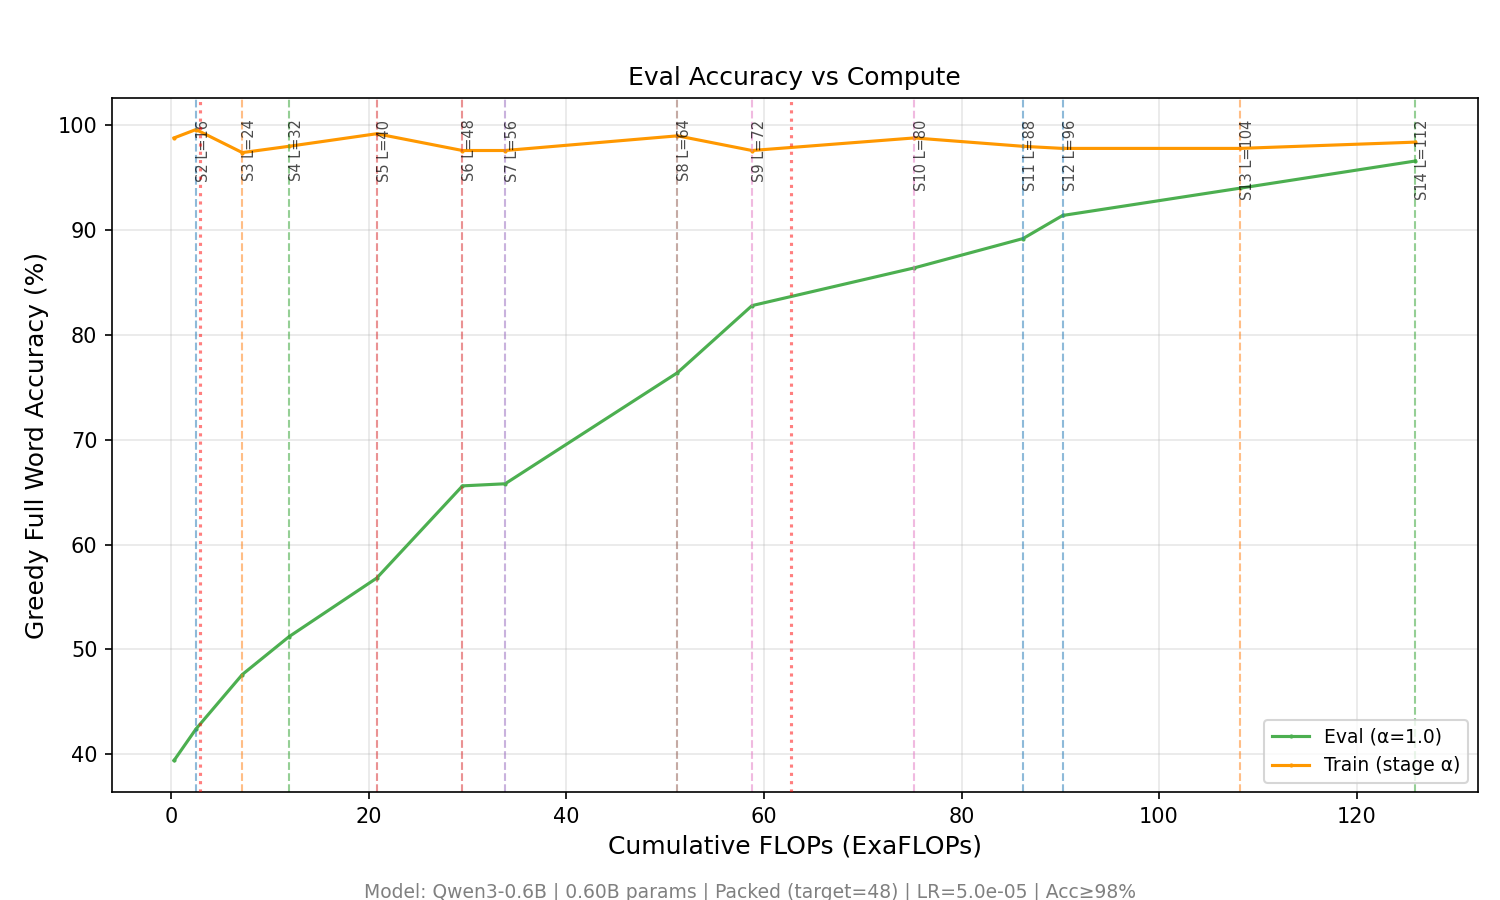
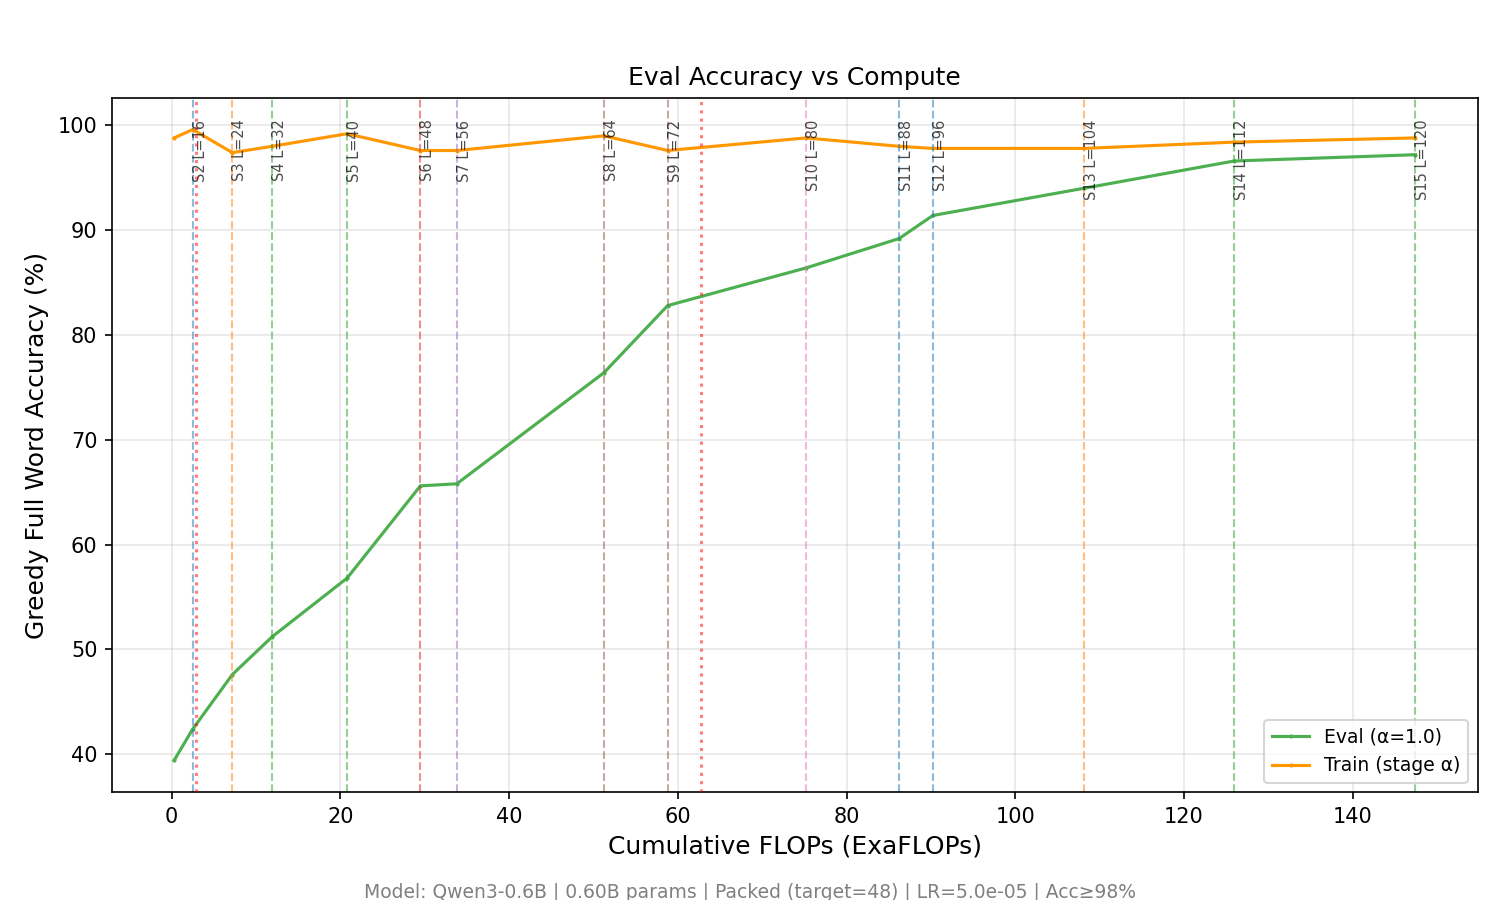
chore(exp1): sync progress and metrics at 2026-10-15 10:05 UTC (LoRA R=8 reached Stage 16 L=128)

diff --git a/PROGRESS.md b/PROGRESS.md
@@ -3,7 +3,7 @@
 **Base commit:** `da7b19c` (`main`)
 **Branch:** `jackierwzhang/exp1-qwen06b-lora-vs-fullft`
 **VMs:** `nl-exp1-spot-fullft` (`europe-west1-c`, deleted after completion), `nl-exp1-spot-r8` (`a3-highgpu-4g`, 4x H100-80GB Spot, `us-east4-a`), `nl-exp1-spot-r64` (`a3-highgpu-4g`, 4x H100-80GB Spot, `europe-west1-c`), `nl-exp1-spot-r256` (`a3-highgpu-4g`, 4x H100-80GB Spot, `us-east4-b`)
-**Last updated:** 2026-10-15 09:47 UTC
+**Last updated:** 2026-10-15 10:05 UTC
 
 ## Shared Configuration
 
@@ -26,11 +26,11 @@
 | Arm | Job ID | Mode | GPUs | Status | Step | Stage / $L$ | Rolling Full Acc | Rolling First Acc | Loss | PFLOPs | TFLOP/s | Wall Time | Est. Remaining |
 | :--- | :--- | :--- | :--- | :--- | ---: | :--- | ---: | ---: | ---: | ---: | ---: | ---: | :--- |
 | Full-FT | `exp1_qwen06b_fullft` | Full FT | 0,1,2,3 (Spot 4x H100: nl-exp1-spot-fullft, europe-west1-c) | Completed | 27570 | 16 (`L=128`) | 97.62% | 98.88% | 0.0163 | 116023.73 | 405.3 | 71.26h | 0.0h (Done) |
-| LoRA `R=8` | `exp1_qwen06b_lora_r8` | `--use_lora --lora_rank 8` (`alpha=16, dropout=0.1`) | 0,1,2,3 (Spot 4x H100: nl-exp1-spot-r8, us-east4-a) | Running | 40540 | 15 (`L=120`) | 96.88% | 98.12% | 0.0181 | 146142.91 | 238.3 | 127.70h | ~18.5h (stage-wt) / ~0.0h (82k PFLOPs ref) |
-| LoRA `R=64` | `exp1_qwen06b_lora_r64` | `--use_lora --lora_rank 64` (`alpha=128, dropout=0.1`) | 0,1,2,3 (Spot 4x H100: nl-exp1-spot-r64, europe-west1-c) | Running | 30610 | 16 (`L=128`) | 96.00% | 97.62% | 0.0235 | 129627.07 | 219.1 | 120.69h | ~1.1h (stage-wt) / ~0.0h (82k PFLOPs ref) |
-| LoRA `R=256` | `exp1_qwen06b_lora_r256` | `--use_lora --lora_rank 256` (`alpha=512, dropout=0.1`) | 0,1,2,3 (Spot 4x H100: nl-exp1-spot-r256, us-east4-b) | Running | 32650 | 10 (`L=80`) | 96.38% | 98.12% | 0.0231 | 98054.28 | 162.2 | 126.08h | ~190.3h (stage-wt) / ~0.0h (82k PFLOPs ref) |
+| LoRA `R=8` | `exp1_qwen06b_lora_r8` | `--use_lora --lora_rank 8` (`alpha=16, dropout=0.1`) | 0,1,2,3 (Spot 4x H100: nl-exp1-spot-r8, us-east4-a) | Running | 40580 | 16 (`L=128`) | 97.12% | 98.25% | 0.0201 | 146405.08 | 237.4 | 127.99h | ~14.2h (stage-wt) / ~0.0h (82k PFLOPs ref) |
+| LoRA `R=64` | `exp1_qwen06b_lora_r64` | `--use_lora --lora_rank 64` (`alpha=128, dropout=0.1`) | 0,1,2,3 (Spot 4x H100: nl-exp1-spot-r64, europe-west1-c) | Running | 30660 | 16 (`L=128`) | 95.88% | 97.38% | 0.0196 | 129959.41 | 219.8 | 121.00h | ~1.1h (stage-wt) / ~0.0h (82k PFLOPs ref) |
+| LoRA `R=256` | `exp1_qwen06b_lora_r256` | `--use_lora --lora_rank 256` (`alpha=512, dropout=0.1`) | 0,1,2,3 (Spot 4x H100: nl-exp1-spot-r256, us-east4-b) | Running | 32710 | 10 (`L=80`) | 96.75% | 97.75% | 0.0241 | 98311.59 | 162.2 | 126.40h | ~190.8h (stage-wt) / ~0.0h (82k PFLOPs ref) |
 
-> **ETA Methodology & Overall Experiment 1 Completion (3 Active Arms on 12x Spot H100; Full-FT Completed):** `stage-wt` scales current wall time by remaining lookahead units ($\sum_{k=1}^{16} k = 136$); `82k PFLOPs ref` divides remaining compute against the collaborator's `Qwen3-0.6B` `step=8` cold-start reference (`82,000 PFLOPs` to `L=128`) by the arm's measured `PFLOPs/h` rate. Next arm completion is estimated in **~1.1h (stage-wt) / ~0.0h (82k PFLOPs ref)**; full 4-arm concurrent completion is bounded by the slowest arm at **~190.3h (stage-wt) to ~0.0h (82k PFLOPs ref)**.
+> **ETA Methodology & Overall Experiment 1 Completion (3 Active Arms on 12x Spot H100; Full-FT Completed):** `stage-wt` scales current wall time by remaining lookahead units ($\sum_{k=1}^{16} k = 136$); `82k PFLOPs ref` divides remaining compute against the collaborator's `Qwen3-0.6B` `step=8` cold-start reference (`82,000 PFLOPs` to `L=128`) by the arm's measured `PFLOPs/h` rate. Next arm completion is estimated in **~1.1h (stage-wt) / ~0.0h (82k PFLOPs ref)**; full 4-arm concurrent completion is bounded by the slowest arm at **~190.8h (stage-wt) to ~0.0h (82k PFLOPs ref)**.
 
 ## Stage Evaluation Summary (`stage_eval_history.json`)
 
@@ -66,6 +66,7 @@
 | LoRA `R=8` | 12 | 31000 | 96 | 0.760 | 0.0679 | 91.60% | 91.40% | 97.80% | 97.80% |
 | LoRA `R=8` | 13 | 34225 | 104 | 0.823 | 0.0458 | 94.20% | 94.00% | 98.20% | 97.80% |
 | LoRA `R=8` | 14 | 37200 | 112 | 0.886 | 0.0366 | 96.60% | 96.60% | 98.40% | 98.40% |
+| LoRA `R=8` | 15 | 40550 | 120 | 0.949 | 0.0343 | 97.20% | 97.20% | 98.80% | 98.80% |
 | LoRA `R=64` | 1 | 450 | 8 | 0.067 | 0.5967 | 39.40% | 39.40% | 98.80% | 98.80% |
 | LoRA `R=64` | 2 | 1300 | 16 | 0.130 | 0.3640 | 45.80% | 45.20% | 98.80% | 98.80% |
 | LoRA `R=64` | 3 | 2675 | 24 | 0.193 | 0.3256 | 51.20% | 51.00% | 99.20% | 99.20% |
